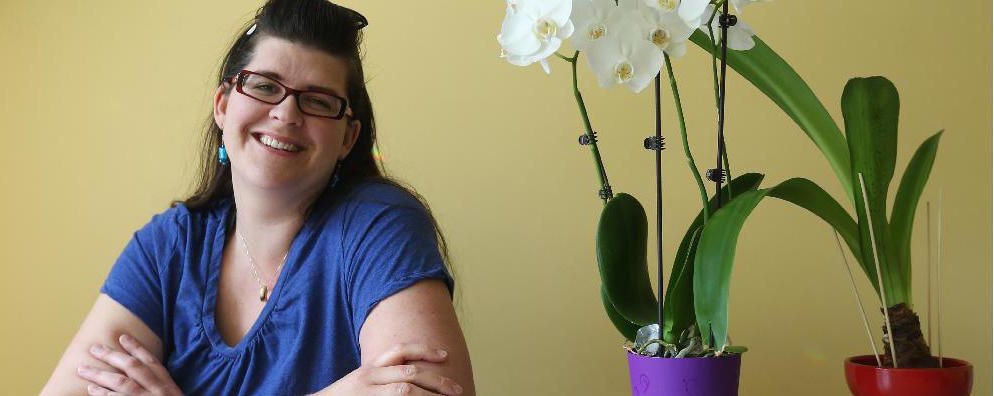
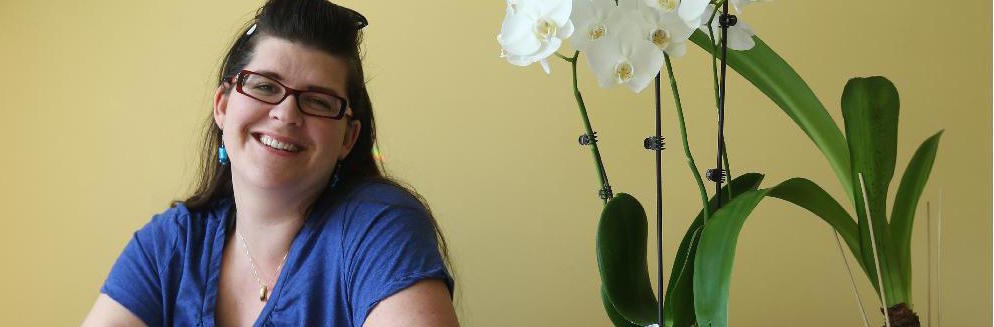
added magic

diff --git a/index.html b/index.html
@@ -36,6 +36,13 @@
         <link rel="stylesheet" href="css/stylesheet.css" type="text/css">
         <link href='http://fonts.googleapis.com/css?family=Droid+Sans' rel='stylesheet' type='text/css'>
         <!--<?xml-stylesheet type="text/css" href="./css/stylesheet.css" ?>-->
+        <script src="https://ajax.googleapis.com/ajax/libs/jquery/1.11.0/jquery.min.js"></script>
+        <script type="text/javascript">
+            function scrollTo(div) {
+                $('html, body').animate({ scrollTop: $(div).offset().top }, 'slow');
+                return false;
+            }
+        </script>
   </head>
 
   <body>
@@ -74,12 +81,12 @@
              <!-- Collect the nav links, forms, and other content for toggling -->
              <div class="collapse navbar-collapse" id="bs-example-navbar-collapse-1">
                  <ul class="nav nav-justified">
-                     <li><a href="#information">Information</a></li>
-                     <li><a href="#personal_stories">Personal Stories</a></li>
-                     <li><a href="#news">News</a></li>
-                     <li><a href="#games">Games</a></li>
-                     <li><a href="#store">Stores</a></li>
-                     <li><a href="#about">About</a></li>
+                     <li><a href="#information" onclick="scrollTo(information)">Information</a></li>
+                     <li><a href="#personal_stories" onclick="scrollTo(personal_stories)">Personal Stories</a></li>
+                     <li><a href="#news" onclick="scrollTo(news)">News</a></li>
+                     <li><a href="#games" onclick="scrollTo(games)">Games</a></li>
+                     <li><a href="#store" onclick="scrollTo(store)">Stores</a></li>
+                     <li><a href="#about" onclick="scrollTo(about)">About</a></li>
                  </ul>
              </div><!-- /.navbar-collapse -->
          </div><!-- /.container-fluid -->
@@ -91,21 +98,27 @@
              <li data-target="#myCarousel" data-slide-to="0" class="active"></li>
              <li data-target="#myCarousel" data-slide-to="1"></li>
              <li data-target="#myCarousel" data-slide-to="2"></li>
+             <li data-target="#myCarousel" data-slide-to="3"></li>
+             <li data-target="#myCarousel" data-slide-to="4"></li>
          </ol>
 
          <!-- Wrapper for slides -->
          <div class="carousel-inner" role="listbox">
             <div class="item active">
-                 <img src="images/Family2.jpg" alt="Chania">
+                 <img src="images/1.jpg" alt="Chania">
+             </div>
+             <div class="item">
+                 <img src="images/2.jpg" alt="Chania">
              </div>
 
              <div class="item">
-                 <img src="images/Group.jpg" alt="Chania">
+                 <img src="images/3.jpg" alt="Flower">
              </div>
-             
-
              <div class="item">
-                 <img src="images/Family4.jpg" alt="Flower">
+                 <img src="images/4.jpg" alt="Flower">
+             </div>
+             <div class="item">
+                 <img src="images/5.jpg" alt="Flower">
              </div>
          </div>
 
@@ -215,8 +228,6 @@
         </footer>
 
     </div><!-- /.container -->
-
-
 
     </body>
 </html>

diff --git a/personal_stories.html b/personal_stories.html
@@ -36,12 +36,21 @@
         <link rel="stylesheet" href="css/stylesheet.css" type="text/css">
         <link href='http://fonts.googleapis.com/css?family=Droid+Sans' rel='stylesheet' type='text/css'>
         <!--<?xml-stylesheet type="text/css" href="./css/stylesheet.css" ?>-->
+        <script src="https://ajax.googleapis.com/ajax/libs/jquery/1.11.0/jquery.min.js"></script>
+        <script type="text/javascript">
+            function scrollTo(div) {
+                $('html, body').animate({ scrollTop: $(div).offset().top }, 'slow');
+                return false;
+            }
+        </script>
   </head>
 
   <body>
      <div class="jumbotron">
       <div class="container">
-          <a href="index.html"><img id="logo" src="./images/syringe.svg" class="col-xs-12 col-md-3 col-lg-3"/></a>
+          <div class="col-xs-12 col-md-3 col-lg-3">
+              <a href="index.html"><img id="logo" src="./images/syringe.svg"/></a>
+          </div>
           <div class="col-xs-12 col-md-6 col-lg-6" id="title">
               <h1>Take a Shot</h1>
               <h2>Because everyone should vaccinate</h2>
@@ -72,10 +81,10 @@
              <!-- Collect the nav links, forms, and other content for toggling -->
              <div class="collapse navbar-collapse" id="bs-example-navbar-collapse-1">
                  <ul class="nav nav-justified">
-                    <li><a href="#hall">Hall</a></li>
-                    <li><a href="#hills">Hills</a></li>
-                    <li><a href="#phillips">Phillips</a></li>
-                    <li><a href="#stringer">Stringer</a></li>
+                    <li><a href="#hall" onclick="scrollTo(hall)">Hall</a></li>
+                    <li><a href="#hills" onclick="scrollTo(hills)">Hills</a></li>
+                    <li><a href="#phillips" onclick="scrollTo(phillips)">Phillips</a></li>
+                    <li><a href="#stringer" onclick="scrollTo(stringer)">Stringer</a></li>
                  </ul>
              </div><!-- /.navbar-collapse -->
          </div><!-- /.container-fluid -->

diff --git a/information.html b/information.html
@@ -36,6 +36,13 @@
         <link rel="stylesheet" href="css/stylesheet.css" type="text/css">
         <link href='http://fonts.googleapis.com/css?family=Droid+Sans' rel='stylesheet' type='text/css'>
         <!--<?xml-stylesheet type="text/css" href="./css/stylesheet.css" ?>-->
+        <script src="https://ajax.googleapis.com/ajax/libs/jquery/1.11.0/jquery.min.js"></script>
+        <script type="text/javascript">
+            function scrollTo(div) {
+                $('html, body').animate({ scrollTop: $(div).offset().top }, 'slow');
+                return false;
+            }
+        </script>
   </head>
 
   <body>
@@ -74,10 +81,10 @@
              <!-- Collect the nav links, forms, and other content for toggling -->
              <div class="collapse navbar-collapse" id="bs-example-navbar-collapse-1">
                  <ul class="nav nav-justified">
-                     <li><a href="#recommendations">Recommendations</a></li>
-                     <li><a href="#benefits">Benefits</a></li>
-                     <li><a href="#organizations">Organizations</a></li>
-                     <li><a href="#experts">Experts</a></li>
+                     <li><a href="#recommendations" onclick="scrollTo(recommendations)">Recommendations</a></li>
+                     <li><a href="#benefits" onclick="scrollTo(benefits)">Benefits</a></li>
+                     <li><a href="#organizations" onclick="scrollTo(organizations)">Organizations</a></li>
+                     <li><a href="#experts" onclick="scrollTo(experts)">Experts</a></li>
 
                  </ul>
              </div><!-- /.navbar-collapse -->

diff --git a/css/stylesheet.css b/css/stylesheet.css
@@ -101,8 +101,7 @@ h3{
 }
 
 #myCarousel{
-    height: 500px;
-    overflow: hidden;
+    width: 100%;
 }
 
 .contentInnerDiv{
